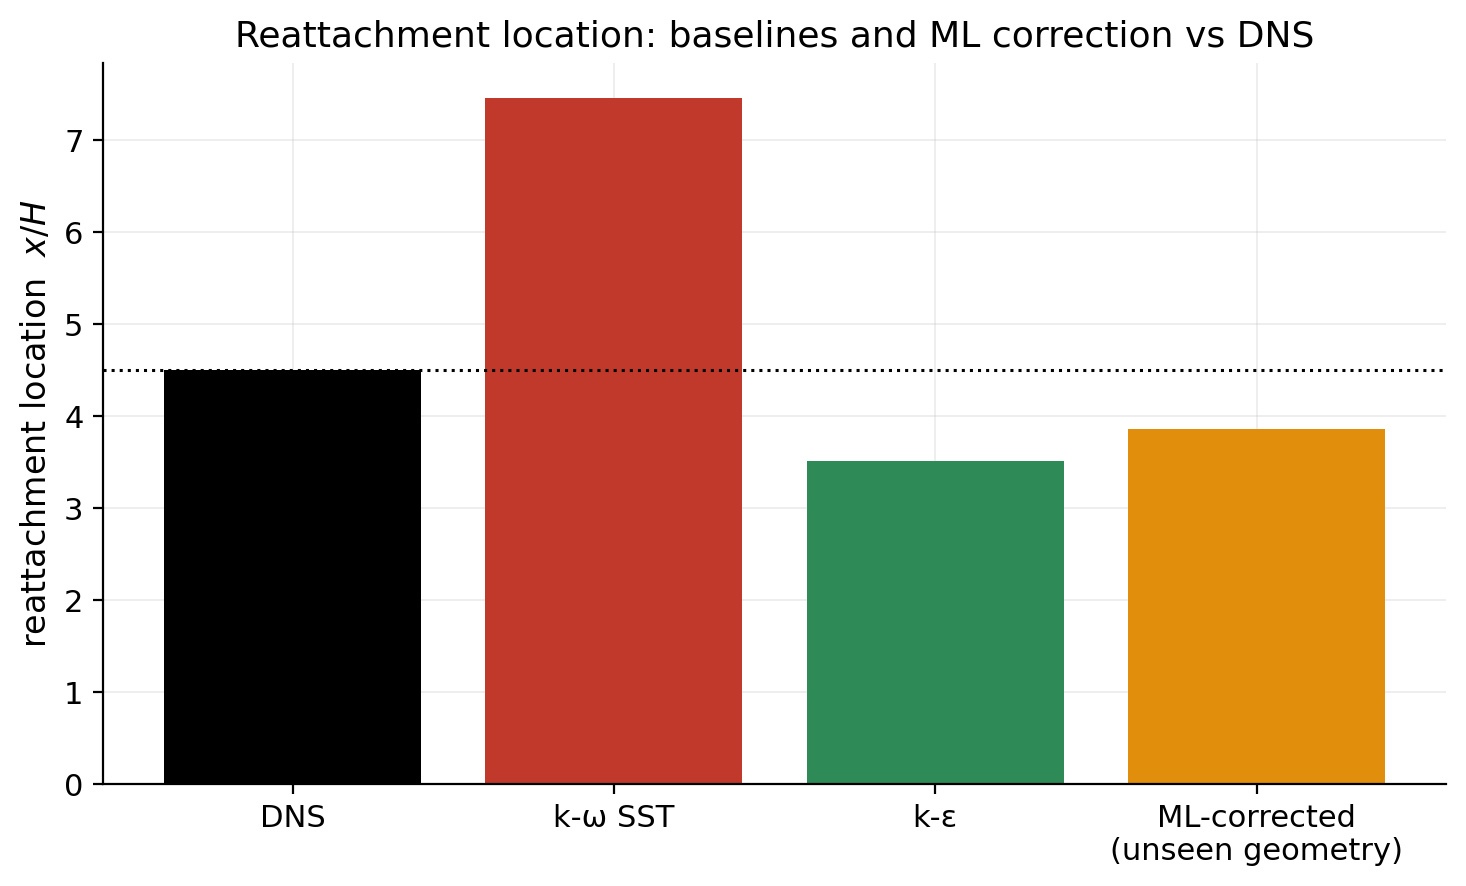
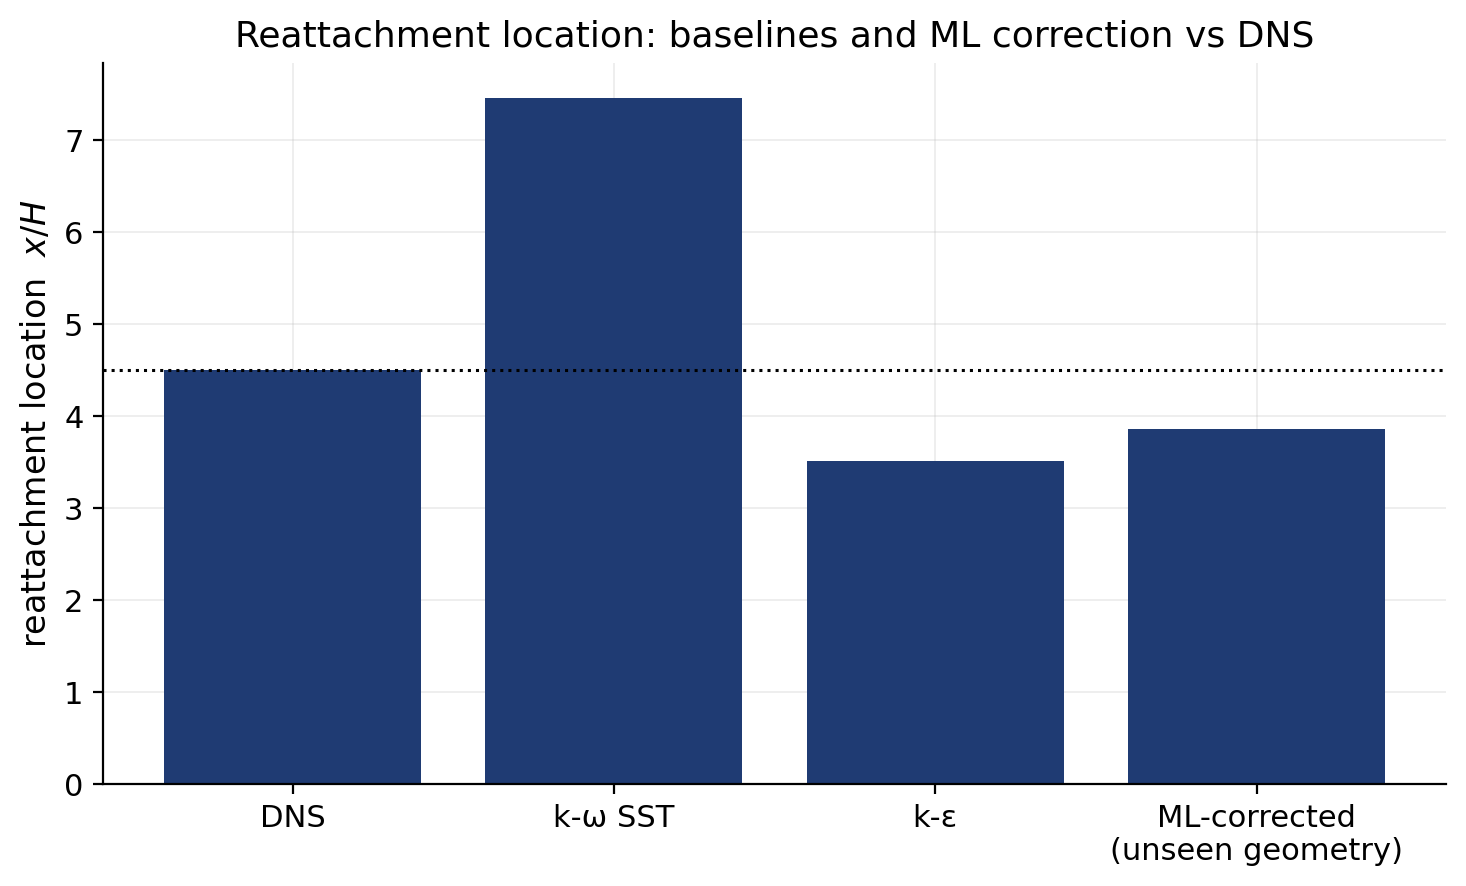
Use a single colour for the reattachment summary bars
The per-bar colours implied a categorical distinction that isn't there - all
four are the same quantity measured four ways. The dotted line still marks the
DNS reference.

diff --git a/analysis/18_figures.py b/analysis/18_figures.py
@@ -71,7 +71,7 @@ def fig_reattachment():
             "ML-corrected\n(unseen geometry)":
                 float(apr.loc["corrected (pred beta, unseen)", "x_reattachment"])}
     fig, ax = plt.subplots(figsize=(7.5, 4.6))
-    ax.bar(list(vals), list(vals.values()), color=["k", RED, GREEN, ORANGE])
+    ax.bar(list(vals), list(vals.values()), color=NAVY)
     ax.axhline(dns, color="k", ls=":", lw=1.1)
     ax.set_ylabel("reattachment location  $x/H$")
     ax.set_title("Reattachment location: baselines and ML correction vs DNS")
